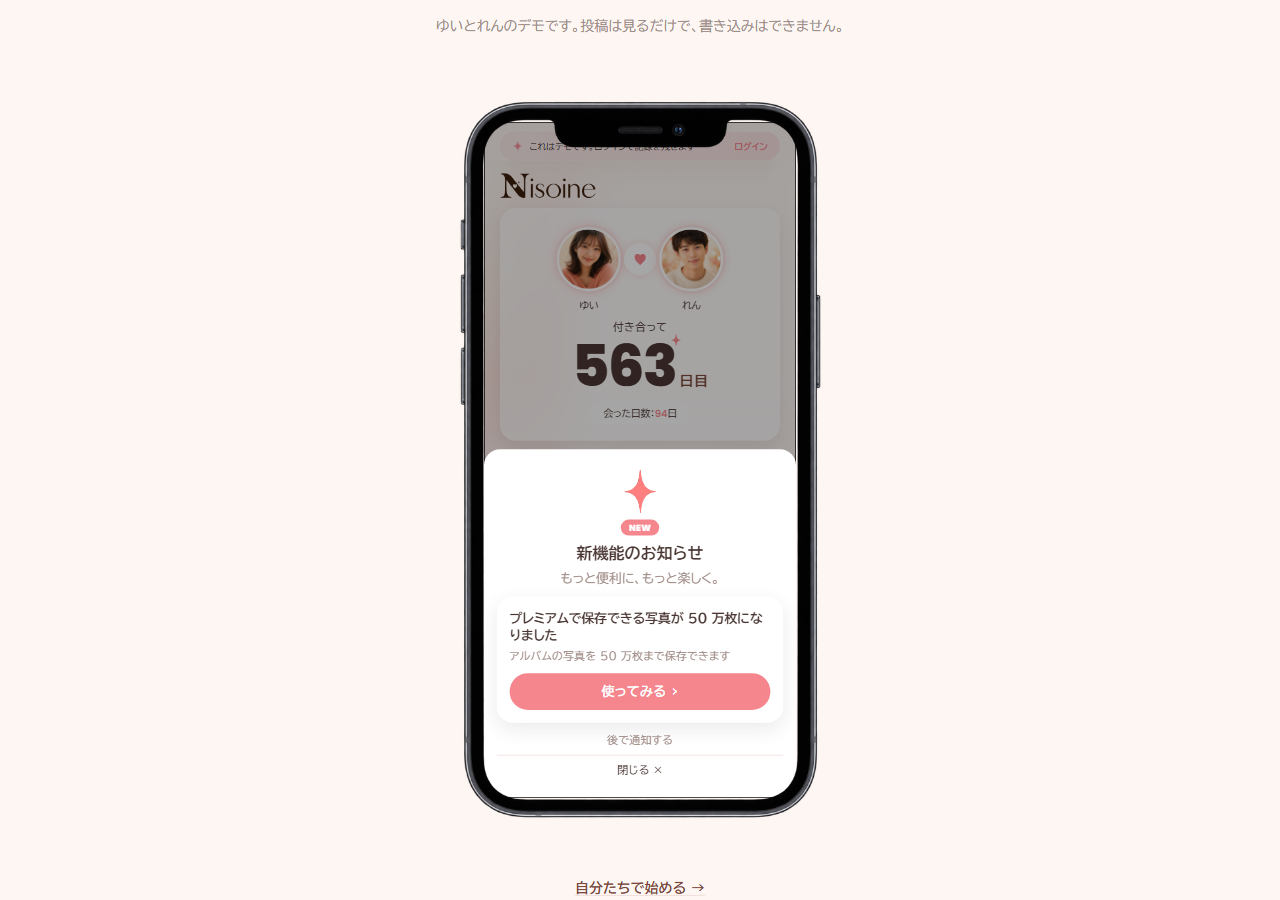
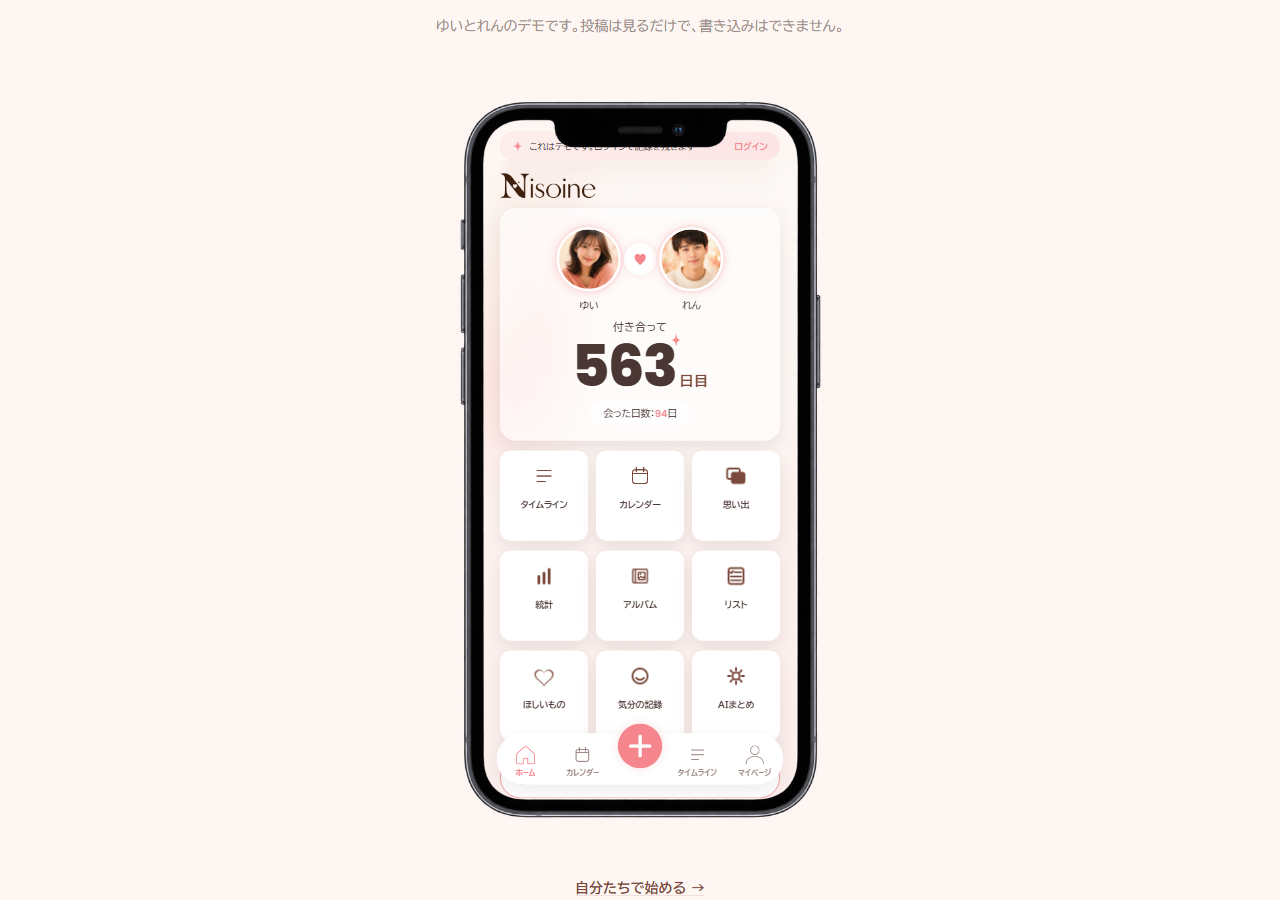
056: 親を飛ばすのは exitGuestMode だけ。框の中はサインイン画面を出さず 1 行。お知らせのシートは框の中で出さない（A の #400。T4b・T7）
Session: B

Changed region(s): [[0.375, 0.1244, 0.625, 0.8711], [0.5938, 0.84, 0.625, 0.8711]]

diff --git a/apps/app/app/_layout.tsx b/apps/app/app/_layout.tsx
@@ -1,7 +1,7 @@
 import { useEffect, useState } from "react";
 import { isDefinedError } from "@orpc/client";
 import { AppearanceProvider, Button, Screen, space, Text, useTheme } from "@futary/ui";
-import { View } from "react-native";
+import { Text as RNText, View } from "react-native";
 import { QueryClientProvider, useQuery } from "@tanstack/react-query";
 import { Stack } from "expo-router";
 import { DemoBanner } from "../components/demo-banner";
@@ -71,11 +71,6 @@ function RootNavigator() {
     }
   }, [demoFailed]);
 
-  // 056: 框（LP の iframe）の中ではサインイン画面を出さず、親ページを /app/ に飛ばす（0節 #3）。
-  // exitGuestMode・デモの帯の「ログイン」・書き込みの UI から戻るときの全部がここを通る（入口は 1 箇所）
-  useEffect(() => {
-    if (showAuth && inFrame) leaveFrameToApp();
-  }, [showAuth, inFrame]);
 
   // 【発見: ゲストではじめる→/composeに飛んで読み込み中のまま止まる不具合の真因】
   // 以前はここで識別変化のたびに`queryClient.clear()`を呼んでいた
@@ -153,8 +148,12 @@ function RootNavigator() {
         },
         // 上と同じ理由。(auth)グループの中身は"sign-in"1つだけなので、
         // guardがshowAuth:trueへ切り替われば自然にそこへ着地する
+        // 056 0節 #3: 框（LP の iframe）の中では、サインイン画面に行く代わりに親ページを /app/ に飛ばす。
+        // 親を飛ばすのは利用者の操作（帯の「ログイン」・書き込みの UI から戻る）= ここの 1 箇所だけ。
+        // デモの読み込みの失敗（demoFailed）では飛ばさない（R の指摘: 何も押していないのに LP ごと飛んでいた）
         exitGuestMode: () => {
           setIsGuestMode(false);
+          if (inFrame) leaveFrameToApp();
         },
         demoUnavailable,
       }}
@@ -174,7 +173,9 @@ function RootNavigator() {
         <Stack.Protected guard={needsOnboarding}>
           <Stack.Screen name="(onboarding)" />
         </Stack.Protected>
-        <Stack.Protected guard={showAuth}>
+        {/* 056 0節 #3b: 框の中ではサインイン画面（Google のボタン・「ゲストではじめる」）を一切出さない。
+            その状態は下の 1 行の画面が受ける */}
+        <Stack.Protected guard={showAuth && !inFrame}>
           <Stack.Screen name="(auth)" />
         </Stack.Protected>
         {/* 認証済みの利用者がcouple.getでNEEDS_ONBOARDING以外のエラー（通信断等）を
@@ -204,6 +205,35 @@ function RootNavigator() {
           }}
         >
           <Text color="muted">読み込み中…</Text>
+        </View>
+      )}
+      {/* 056 0節 #3b: 框の中で未認証・ゲストでもない状態（demoFailed のあと・exitGuestMode の直後の一瞬）は
+          「デモを読み込めませんでした」+「アプリを開く」（親ページで /app/ を開く）だけ */}
+      {showAuth && inFrame && (
+        <View
+          testID="frame-fallback"
+          style={{
+            position: "absolute",
+            top: 0,
+            left: 0,
+            right: 0,
+            bottom: 0,
+            backgroundColor: colors.bg,
+            alignItems: "center",
+            justifyContent: "center",
+            gap: space.md,
+            padding: space.xl,
+          }}
+        >
+          <Text color="muted">デモを読み込めませんでした</Text>
+          <RNText
+            accessibilityRole="link"
+            testID="frame-fallback-open"
+            style={{ color: colors.brandInk, fontWeight: "700" }}
+            {...({ href: "/app/", hrefAttrs: { target: "_top" } } as object)}
+          >
+            アプリを開く
+          </RNText>
         </View>
       )}
       {isUnresolved && (

diff --git a/apps/app/test/home-releases.test.tsx b/apps/app/test/home-releases.test.tsx
@@ -2,7 +2,7 @@ import { act, fireEvent, render, screen, waitFor } from "@testing-library/react"
 import { QueryClientProvider } from "@tanstack/react-query";
 import { AppearanceProvider } from "@futary/ui";
 import type { ReactElement } from "react";
-import { beforeEach, describe, expect, it, vi } from "vitest";
+import { afterEach, beforeEach, describe, expect, it, vi } from "vitest";
 
 // 043: ホームのリリース履歴のボタン（T2）・「新機能のお知らせ」のシート（T3）・一覧を開くと
 // ホームのバッジが消える（T4）・オンボーディングにはシートが出ない（T6）の画面結合テスト。
@@ -276,5 +276,35 @@ describe("オンボーディングにはシートが出ない（043 T6）", () =
     expect(screen.getByText("ふたりをはじめる")).toBeTruthy();
     expect(screen.queryByTestId("release-sheet")).toBeNull();
     expect(screen.queryByText("新機能のお知らせ")).toBeNull();
+  });
+});
+
+// 056 T7: LP のスマホの枠（iframe）の中では「新機能のお知らせ」を出さず、releaseSeen も書かない
+describe("056 T7: 框の中ではお知らせのシートを出さない", () => {
+  const originalTop = Object.getOwnPropertyDescriptor(window, "top");
+  afterEach(() => {
+    if (originalTop) Object.defineProperty(window, "top", originalTop);
+  });
+
+  it("框の中（window.top !== window.self）: 未読でもシートが出ず、localStorage の releaseSeen は書かれない。markReleaseSeen・deferRelease も書かない", async () => {
+    Object.defineProperty(window, "top", { configurable: true, get: () => ({}) });
+    const { markReleaseSeen, deferRelease } = await import("../lib/release-seen");
+    await renderHome();
+    await act(async () => {
+      await new Promise((r) => setTimeout(r, 50));
+    });
+    expect(screen.queryByTestId("release-sheet")).toBeNull();
+    expect(window.localStorage.getItem(RELEASE_SEEN_STORAGE_KEY)).toBeNull();
+    markReleaseSeen();
+    deferRelease();
+    expect(window.localStorage.getItem(RELEASE_SEEN_STORAGE_KEY)).toBeNull();
+    expect(window.sessionStorage.getItem(RELEASE_LATER_STORAGE_KEY)).toBeNull();
+    // NEW のバッジ（読むだけ）は今まで通り
+    expect(screen.getByTestId("release-button-new")).toBeTruthy();
+  });
+
+  it("框の外: 今まで通り出る（上の describe と同じ）", async () => {
+    await renderHome();
+    expect(screen.getByTestId("release-sheet")).toBeTruthy();
   });
 });

diff --git a/apps/app/app/(tabs)/index.tsx b/apps/app/app/(tabs)/index.tsx
@@ -28,6 +28,7 @@ import { FeaturePanel } from "../../components/feature-panel";
 import { ReleaseButton } from "../../components/release-button";
 import { ReleaseSheet } from "../../components/release-sheet";
 import { StatsCard } from "../../components/stats-card";
+import { isInFrame } from "../../lib/demo-frame";
 import { deferRelease, hasUnseenRelease, isReleaseDeferred, markReleaseSeen, useHasUnseenRelease } from "../../lib/release-seen";
 import { LATEST_RELEASE } from "../../lib/releases";
 import { TAB_BAR_CLEARANCE } from "../../lib/tab-bar-layout";
@@ -65,8 +66,9 @@ export default function HomeScreen() {
   // 043: 「新機能のお知らせ」。ホームを開いたときに 1 度（未読で、この起動で「後で」を押していないとき）。
   // 描いたあとに開く（静的書き出しのサーバ側の描画では window が無く、初期値で開くと hydrate と食い違う）
   const [isReleaseSheetOpen, setIsReleaseSheetOpen] = useState(false);
+  // 056 0節 #3c: LP のスマホの枠（iframe）の中では出さない（デモが見えなくなる。releaseSeen も書かない）
   useEffect(() => {
-    if (hasUnseenRelease() && !isReleaseDeferred()) setIsReleaseSheetOpen(true);
+    if (!isInFrame() && hasUnseenRelease() && !isReleaseDeferred()) setIsReleaseSheetOpen(true);
   }, []);
 
   // 「閉じる ×」・シートの外 = 見た（0節 #5）。「使ってみる」= 見た + その画面へ（#6）。

diff --git a/apps/app/lib/release-seen.ts b/apps/app/lib/release-seen.ts
@@ -1,5 +1,6 @@
 import { useSyncExternalStore } from "react";
 import { Platform } from "react-native";
+import { isInFrame } from "./demo-frame";
 import { LATEST_VERSION } from "./releases";
 
 // 043: リリース履歴の「見た」（タスク定義 2節）。端末だけに持つ（サーバに持たない。0節 #2）。
@@ -53,7 +54,10 @@ export function hasUnseenRelease(): boolean {
   return seen !== LATEST_VERSION;
 }
 
+// 056 0節 #3c: LP のスマホの枠（iframe）の中では書かない（同じオリジンの localStorage なので、框で書くと
+// 本物の /app/ でお知らせが出なくなる）。「後で」（sessionStorage）も同じ
 export function markReleaseSeen(): void {
+  if (isInFrame()) return;
   writeKey("local", RELEASE_SEEN_STORAGE_KEY, LATEST_VERSION);
   notify();
 }
@@ -65,6 +69,7 @@ export function isReleaseDeferred(): boolean {
 }
 
 export function deferRelease(): void {
+  if (isInFrame()) return;
   writeKey("session", RELEASE_LATER_STORAGE_KEY, LATEST_VERSION);
 }
 

diff --git a/artifacts/056/stage1.md b/artifacts/056/stage1.md
@@ -1,6 +1,6 @@
 # 056: LP の中でデモを触れるようにする（スマホの枠に `/app/` を埋め込む）— 実装の報告
 
-2026-09-16 / セッションB。タスク定義 `docs/tasks/056-demo-in-phone-frame.md`（main 41e4701）。
+2026-09-16 / セッションB。タスク定義 `docs/tasks/056-demo-in-phone-frame.md`（main cddf7cb。#399 で 0節 #12・T3b、#400 で 0節 #3・#3b・#3c・T4b・T7）。
 **人間の指示（実装中。2026-09-16）: 框の中に実ユーザーのデータが写る経路を塞ぐ**（ログイン中のブラウザで LP を開いても框の中は常にデモ）。
 
 ## 変えたもの
@@ -10,7 +10,8 @@
 | `apps/api/src/lib/security-headers.ts` | `frame-ancestors 'none'` → `'self'`（0節 #1。HTML 全部）。`canonical-host.test.ts` の固定値（053 T4b の `_headers` と 302 行）も `'self'` に |
 | `apps/app/lib/demo-frame.ts`（新規） | `isDemoEntry()`（`?demo=1`）・`isInFrame()`（`window.top !== window.self`。触れなければ true）・`leaveFrameToApp()`（`top.location.assign("/app/")`）・**`frameCredentials()`（框の中は `"omit"`、外は `"include"`）** |
 | `apps/app/lib/orpc.ts` `auth-client.ts` | fetch の `credentials` を `frameCredentials()` に。**框の中では API と認証（`get-session`）に Cookie を送らない** → サーバから見て未認証 = 常にデモペア。ネイティブは `isInFrame` が false で今まで通り |
-| `apps/app/app/_layout.tsx` | `isGuestMode` の初期値を `isDemoEntry()`（0節 #2。Web だけ）。`isAuthenticated = !!session && !inFrame`（二重の守り: 万一セッションが見えても框の中を実ユーザーの画面にしない）。`showAuth && inFrame` で `leaveFrameToApp()`（0節 #3。入口は 1 箇所） |
+| `apps/app/app/_layout.tsx` | `isGuestMode` の初期値を `isDemoEntry()`（0節 #2。Web だけ）。`isAuthenticated = !!session && !inFrame`（二重の守り: 万一セッションが見えても框の中を実ユーザーの画面にしない）。**親を飛ばすのは `exitGuestMode` の 1 箇所だけ**（0節 #3。R の差し戻しを受けて `useEffect(showAuth && inFrame)` はやめた。`demoFailed` では飛ばない）。**框の中では `(auth)` を出さず**（`guard={showAuth && !inFrame}`）、未認証でゲストでもない状態は「デモを読み込めませんでした」+「アプリを開く」（`<a href="/app/" target="_top">`）の 1 行だけ（0節 #3b） |
+| `apps/app/app/(tabs)/index.tsx` `lib/release-seen.ts` | 0節 #3c: 框の中では 043 の「新機能のお知らせ」を出さず、`markReleaseSeen`・`deferRelease` は框の中では書かない（同じオリジンの localStorage/sessionStorage を汚さない） |
 | `apps/landing/index.html` `style.css` | ヒーローの直後に節「さわってみる」（`id="demo"`。0節 #4・#9）。iframe 390×844 を `scale(0.8)`、枠の絵を上に `pointer-events: none`。767px 以下は `.demo { display: none }` |
 | `apps/landing/assets/phone-frame.png` | `docs/sample/landing/phone-frame.png` を幅 800 に（120KB。1024 だと 746KB）。**人間の絵は画面と外側が最初から透明**（B が測った）ので切り抜きは無し。`artifacts/056/scripts/make-assets.py` |
 | `apps/api/vitest.landing-assets.ts`（新規） | 054 の仮想モジュールを別ファイルに。PNG のアルファ（`node:zlib` で読む。依存を足さない）と `style.css` の本文も渡す（vitest は CSS を空にするので `?raw` では読めない） |
@@ -28,18 +29,20 @@ iframe 390×844 を 0.8 に縮めると 312×675。絵を幅 **527px**（= 312 /
 | T2 | 未認証 `?demo=1` → サインイン画面を出さずゲストの (tabs)。無し → サインイン画面 | `apps/app/test/demo-frame.test.tsx` | 緑 |
 | T3 | 認証済み `?demo=1`（框の外）→ 自分のペア | 同上 | 緑 |
 | T4 | 框の中で `exitGuestMode` → `top.location.assign("/app/")`。`?demo=1` 無しで框の中に開いても親を飛ばす。框の外はサインイン画面 | 同上 | 緑 |
-| 追加 | `frameCredentials()`: 外 include・中 omit。**框の中でセッションが見えても認証済みとして扱わずデモのまま** | 同上 | 緑 |
+| T3b | `frameCredentials()`: 外 include・中 omit。**本物の `lib/orpc.ts` の fetch が框の中で `credentials: "omit"`**（`orpc-frame-credentials.test.ts`）。框の中でセッションが見えても認証済みとして扱わずデモのまま | `demo-frame.test.tsx` `orpc-frame-credentials.test.ts` | 緑 |
+| T4b | 框の中で `?demo=1` → `couple.get` が reject → **親は飛ばない**・サインイン画面は出ない・「デモを読み込めませんでした」+「アプリを開く」（`target="_top"`）。框の外の失敗はサインイン画面。框の中で `?demo=1` 無しも同じ 1 行 | `demo-frame.test.tsx` | 緑 |
+| T7 | 框の中では未読でもお知らせのシートが出ず、`releaseSeen`（localStorage）も「後で」（sessionStorage）も書かれない。NEW のバッジ（読むだけ）は出る。框の外は今まで通り | `home-releases.test.tsx` | 緑 |
 | T5 | `<iframe` が 1 つ（`src="/app/?demo=1"`・lazy・title・sandbox 無し）。`<script` 無し。節の文言。767px の `display: none`・`pointer-events: none` | `landing.test.ts` | 緑 |
 | T6 | `phone-frame.png`: 中央・画面の下・外側（左上）のアルファ 0、左の縁とノッチは > 200。150KB 以下 | `landing.test.ts`（仮想モジュールの PNG 読み） | 緑 |
 
-`pnpm lint`・`pnpm type-check`・`pnpm test`（api 736・app 576・db 32・date 67・ui 16）すべて緑。
+`pnpm lint`・`pnpm type-check`・`pnpm test`（api 736・app 581・db 32・date 67・ui 16）すべて緑。
 
 ## 画面と計測（`artifacts/056/`。`scripts/capture.mjs`。`build:public` の出力を `wrangler dev` で）
 
 | ファイル | 何 |
 |---|---|
-| `pc-demo-home.png` | 1280 幅。框の中にデモのホーム（563 日目。043 の「新機能のお知らせ」のシートがゲストの初回と同じく出る） |
-| `pc-demo-home-closed.png` `pc-demo-calendar.png` | シートを閉じてタブ「カレンダー」→ 框の URL が `/app/calendar` |
+| `pc-demo-home.png` `pc-demo-home-closed.png` | 1280 幅。框の中にデモのホーム（563 日目）。**お知らせのシートは出ない**（`releaseSheetInFrame: false`・`releaseSeenInStorage: null`。0節 #3c） |
+| `pc-demo-calendar.png` | タブ「カレンダー」→ 框の URL が `/app/calendar` |
 | `pc-after-login-click.png` | 帯の「ログイン」→ **親ページ**が `/app/`（サインイン画面）。框の中にサインイン画面は出ない |
 | `pc-logged-in-frame-is-demo.png` | **ログイン中（shot-couple のセッション Cookie）**: 親の `/app/` は本人（894 日目・member）、框の中はデモ（563 日目・ゲストの帯） |
 | `mobile-375-top.png` `capture.json` | 375 幅: `#demo` は `display: none`。下まで一度スクロールしても `/app/` への request が 0（lazy の iframe は隠れていれば読まれない。停止条件に当たらない）。横スクロール無し |
@@ -50,7 +53,6 @@ iframe 390×844 を 0.8 に縮めると 312×675。絵を幅 **527px**（= 312 /
 
 - **框の中は常にデモ**（人間の指示）。0節 #2 の「認証済みなら無視（自分のペア）」は框の**外**で `?demo=1` を開いたときだけ（T3）。実装は「框の中では Cookie を送らない」（本体）+「框の中では `isAuthenticated` を false に」（二重の守り）。定義の書き換えは A
 - iframe の中は Playwright の座標クリックが `transform: scale` でずれる（Playwright の制約）ので、撮影は `dispatchEvent("click")` で押した。本物のブラウザの操作はずれない
-- 043 の「新機能のお知らせ」のシートは框の中でもゲストの初回に出る（既存の挙動。塞いでいない）
 - ノッチがデモの帯（「このデモは…」「ログイン」）の中央を隠す（絵のまま。0節 #7）。右端の「ログイン」は見える
 
 ## 停止条件の確認

diff --git a/docs/state.md b/docs/state.md
@@ -3,7 +3,12 @@
 > セッション開始直後・コンテキスト圧縮直後は、まずこのファイルを読む。
 > ファイル変更を伴う作業の完了時は、必ずこのファイルを更新する。
 
-**最終更新**: 2026-09-16 / セッションB。**056（PR #398）: R 差し戻し。必須修正 1 は 0節 #3 の形に由来するので A の判断待ち: 框の中でデモの読み込みが失敗（`demoFailed`）すると、利用者が何も押していないのに親ページ（LP）が `/app/` へ飛ぶ。R の案: 親を飛ばすのは `exitGuestMode`（利用者の操作）だけにし、`demoFailed` は框の中に「デモを読み込めませんでした」を出して止める。**
+**最終更新**: 2026-09-16 / セッションB。**056（PR #398）: A の決定（#400。0節 #3・#3b・#3c）で直した。親を飛ばすのは `exitGuestMode` だけ・框の中はサインイン画面を出さず「デモを読み込めませんでした」+「アプリを開く」・お知らせのシートは框の中で出さず `releaseSeen` も書かない。T4b・T7 緑。R の手番（2 回目）。**
+- 報告 `artifacts/056/stage1.md`（更新）。`capture.json`: 框の中にシート無し・localStorage 無し・帯の「ログイン」で親が `/app/`・ログイン中でも框はデモ
+
+---
+
+**最終更新（旧）**: 2026-09-16 / セッションB。**056（PR #398）: R 差し戻し。必須修正 1 は 0節 #3 の形に由来するので A の判断待ち: 框の中でデモの読み込みが失敗（`demoFailed`）すると、利用者が何も押していないのに親ページ（LP）が `/app/` へ飛ぶ。R の案: 親を飛ばすのは `exitGuestMode`（利用者の操作）だけにし、`demoFailed` は框の中に「デモを読み込めませんでした」を出して止める。**
 - 判定 `artifacts/056/review-stage1.md`。R の記録: 043 のお知らせのシートが框の中でも初回に出る（塞ぐかは A）
 - A が決めたら B が直して R へ
 

diff --git a/docs/worklog.md b/docs/worklog.md
@@ -13621,3 +13621,10 @@ Session: B
 - R の記録: 043 のシートが框の中でも出る → 出さない。`releaseSeen` も書かない（同じオリジンの localStorage を汚さない）
 
 Session: A
+
+## 2026-09-16 セッションB: 056 の差し戻しを A の決定（#400）で直した
+
+- 0節 #3: `leaveFrameToApp()` を `exitGuestMode` に移し、`useEffect(showAuth && inFrame)` を消した。#3b: 框の中では `(auth)` を出さず、1 行「デモを読み込めませんでした」+「アプリを開く」（`target="_top"`）。#3c: お知らせのシートは框の中で出さず、`markReleaseSeen`・`deferRelease` も框の中では書かない
+- T4b・T7 を足した（app 581）。`build:public` → wrangler dev で撮り直し（シート無し・localStorage 無し・ログインで親が `/app/`）
+
+Session: B
